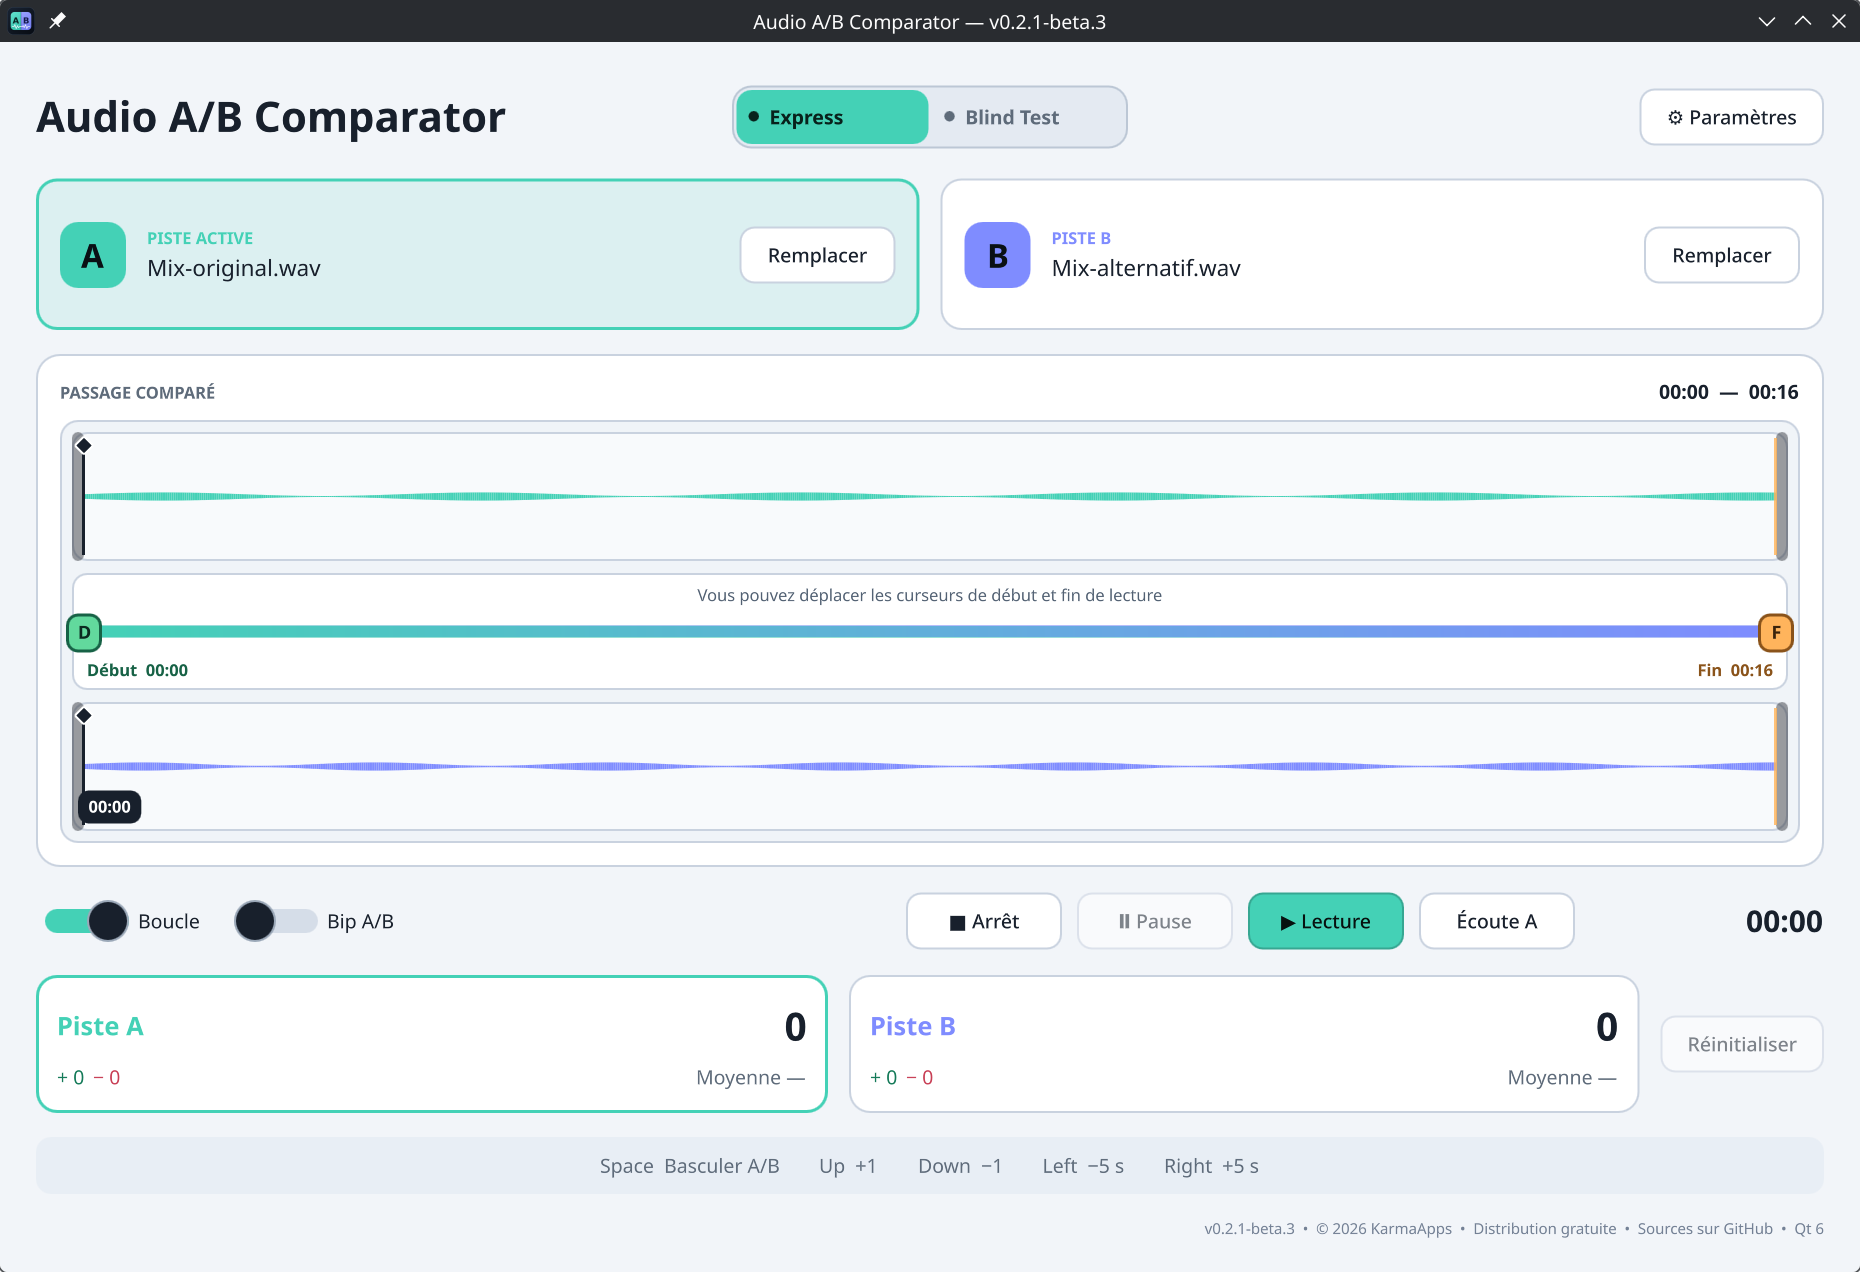
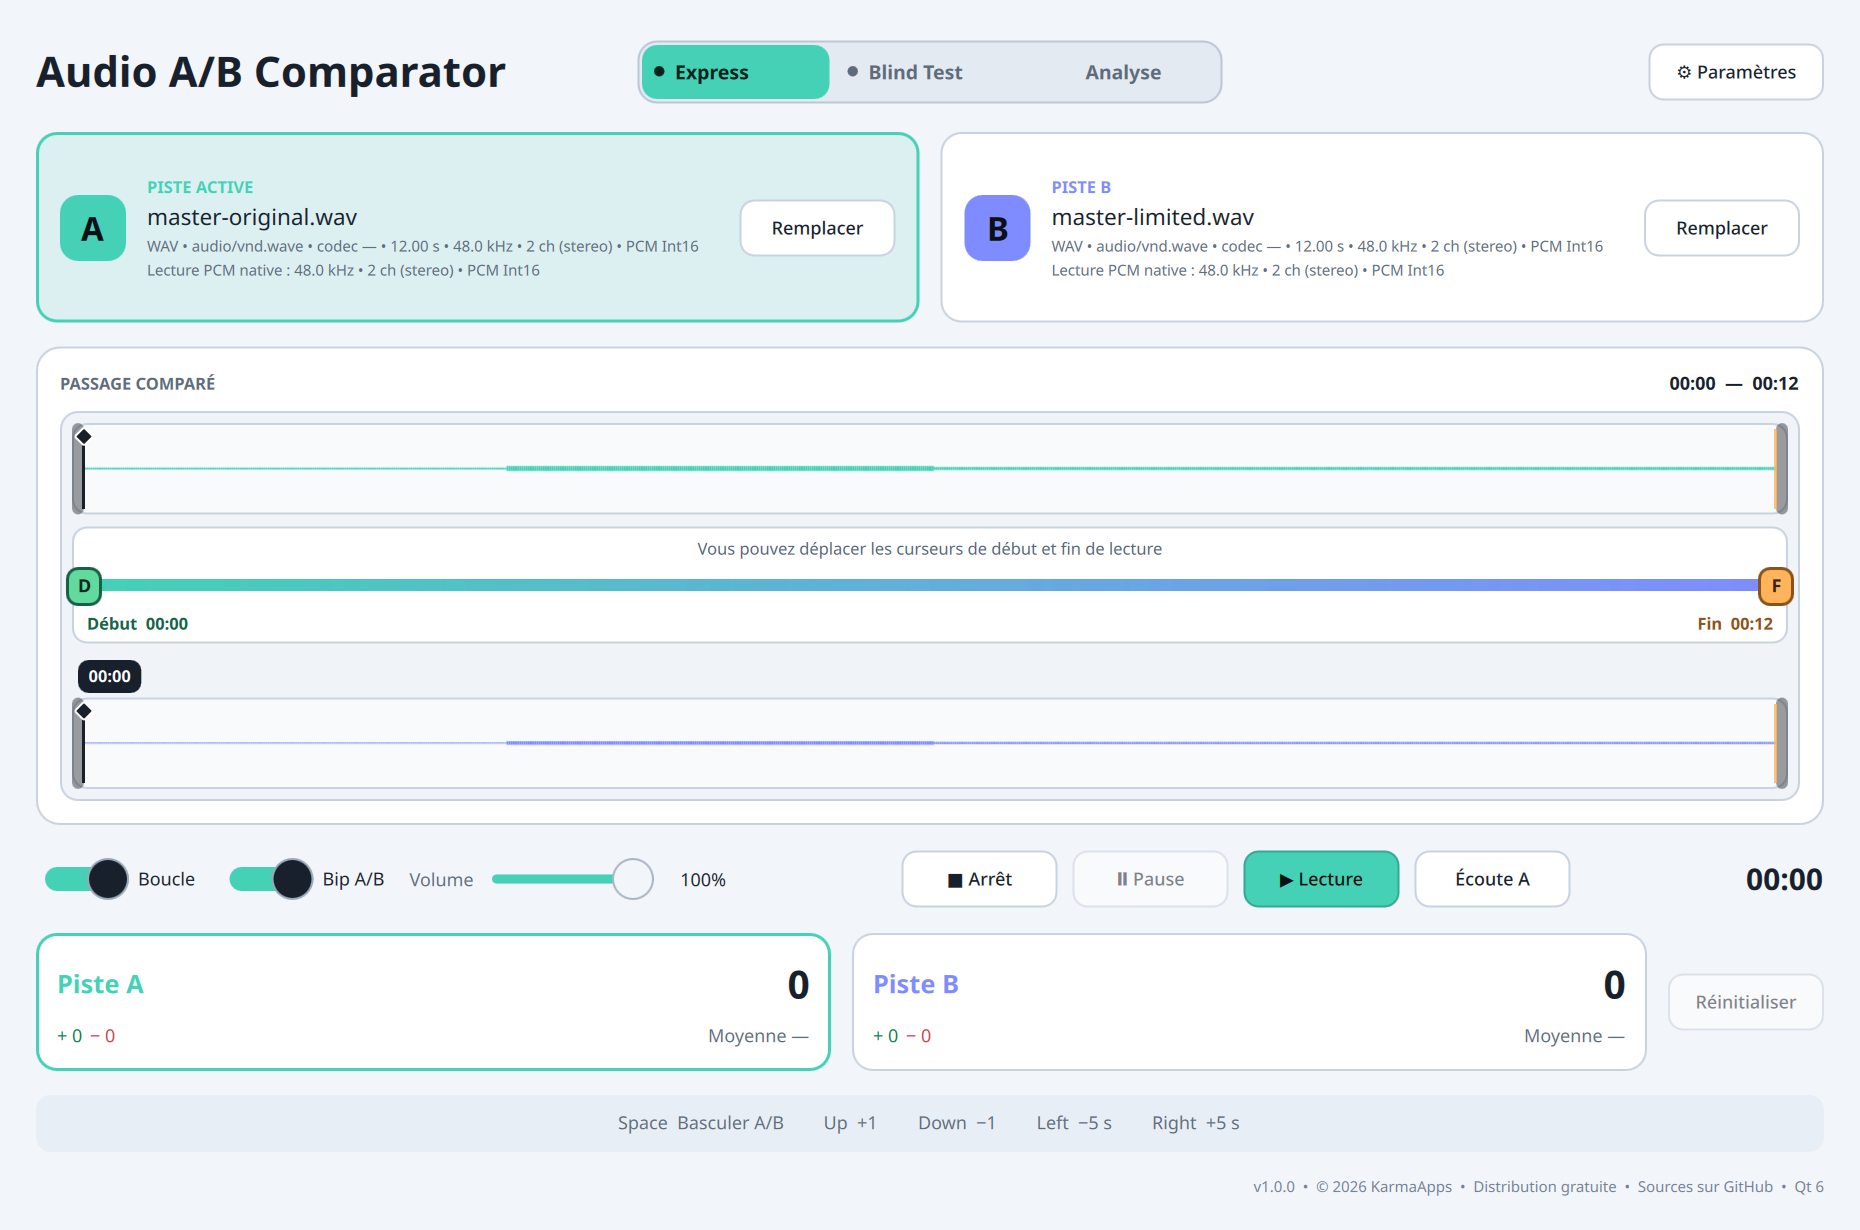
Update screenshots for version 1.0.0

diff --git a/README.md b/README.md
@@ -28,7 +28,7 @@ Everything runs locally. No audio is uploaded, and the application has no accoun
 
 ### Demonstration
 
-![A/B switching and Blind Test demonstration](docs/media/audio-ab-comparator-demo.gif)
+![Express, light theme and Blind Test demonstration](docs/media/audio-ab-comparator-demo.gif)
 
 ## Download
 
